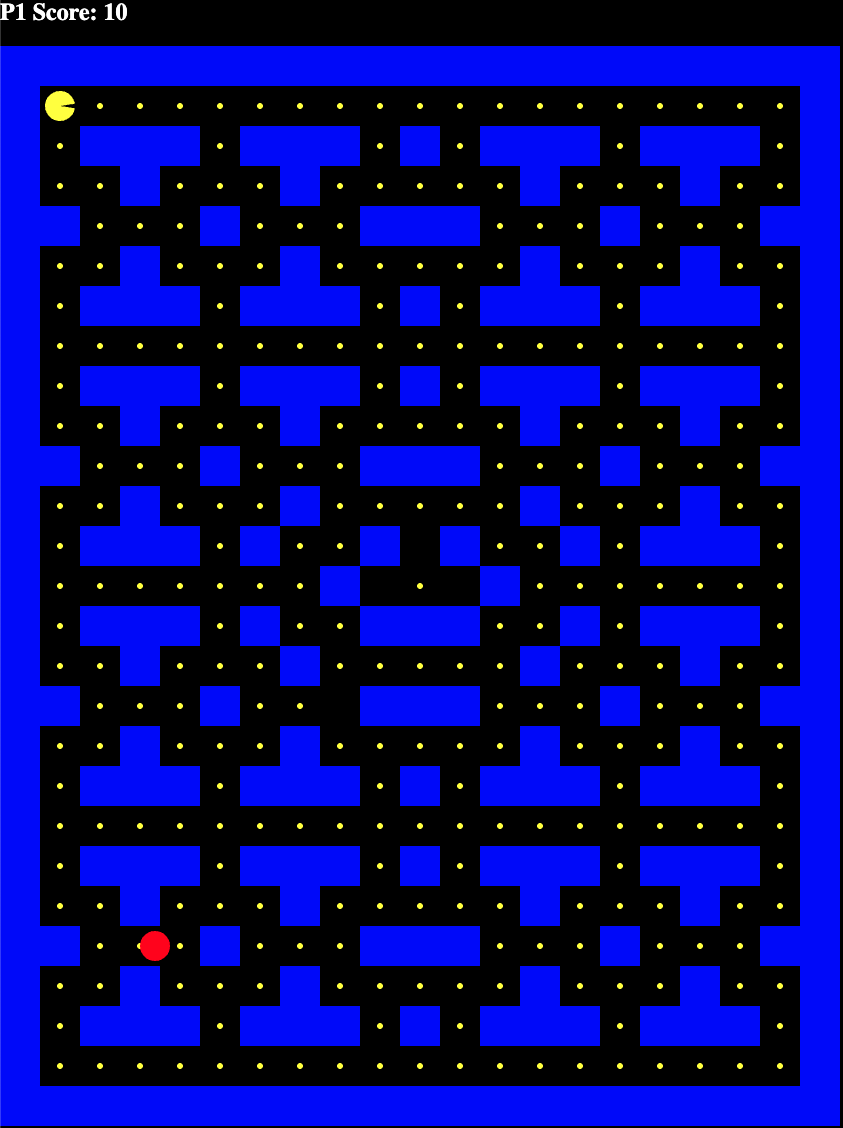
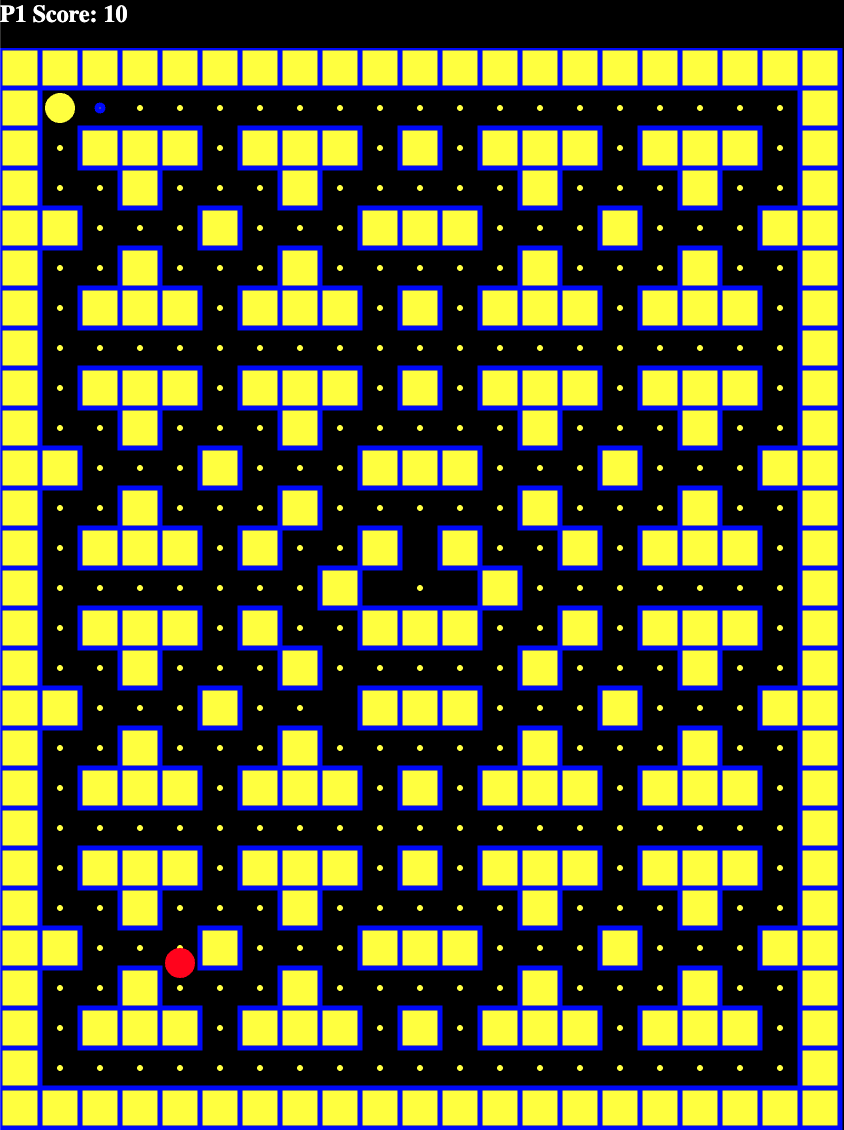
changed background and edited reademe

diff --git a/1playerApp.js b/1playerApp.js
@@ -20,8 +20,13 @@ class Box {
         this.image = image
     }
     render() {
-        ctx.fillStyle = 'blue';
-        ctx.fillRect(this.position.x, this.position.y, this.width, this.height);
+        ctx.rect(this.position.x, this.position.y, this.width, this.height);
+        ctx.fillStyle = 'yellow';
+        ctx.fill();
+        ctx.lineWidth = 5;
+        ctx.strokeStyle = 'blue';
+        ctx.stroke();
+
     }
 }
 

diff --git a/2playerApp.js b/2playerApp.js
@@ -22,8 +22,12 @@ class Box {
         this.image = image
     }
     render() {
-        ctx.fillStyle = 'blue';
-        ctx.fillRect(this.position.x, this.position.y, this.width, this.height);
+        ctx.rect(this.position.x, this.position.y, this.width, this.height);
+        ctx.fillStyle = 'yellow';
+        ctx.fill();
+        ctx.lineWidth = 5;
+        ctx.strokeStyle = 'blue';
+        ctx.stroke();
     }
 }
 

diff --git a/index.css b/index.css
@@ -10,6 +10,7 @@ body {
 
 h1 {
     color: white;
+    background-color: black;
 }
 
 button {
@@ -18,4 +19,5 @@ button {
     font-size: 30px;
     border-radius: 20px;
     background-color: yellow;
+    border: 5px solid blue;
 }

diff --git a/README.md b/README.md
@@ -36,6 +36,37 @@ Who ever gets more pallets without running into the ghost wins the game!
 3. Open the directory in your text editor of choice to view or edit the code
 
 # HOW IT WORKS
+PACMAN is creatd by a class and the game is ran with `setInterval`. 
+
+At the start of the game, Player 1 is pre-positioned at top left corner and Player 2 is pre-positioned at bottom right corner.
+```javascript
+window.addEventListener('DOMContentLoaded', function () {
+    pacman = new Pacman({
+        position: {
+            x: Box.width + Box.width / 2,
+            y: Box.height + Box.height / 2
+        },
+        velocity: {
+            x: 0,
+            y: 0
+        },
+        color: 'yellow'
+    })
+    pacman2 = new Pacman({
+        position: {
+            x: Box.width * 19 + Box.width / 2,
+            y: Box.height * 25 + Box.height / 2
+        },
+        velocity: {
+            x: 0,
+            y: 0
+        },
+        color: 'pink'
+    })
+
+    runGame = setInterval(playGame, 20);
+})
+```
 PACMAN can only can move inside of a set boundary which are set through an array of arrays.  
 ```javascript
 const map = [
@@ -135,4 +166,6 @@ Should I return to this game in the future, I would like to deploy following asp
 
 6. Tunnel to go to either side
 
-7. Animation for Ghosts
+7. Animation for Ghosts rather than just a simple circle
+
+8. Make the map prettier
